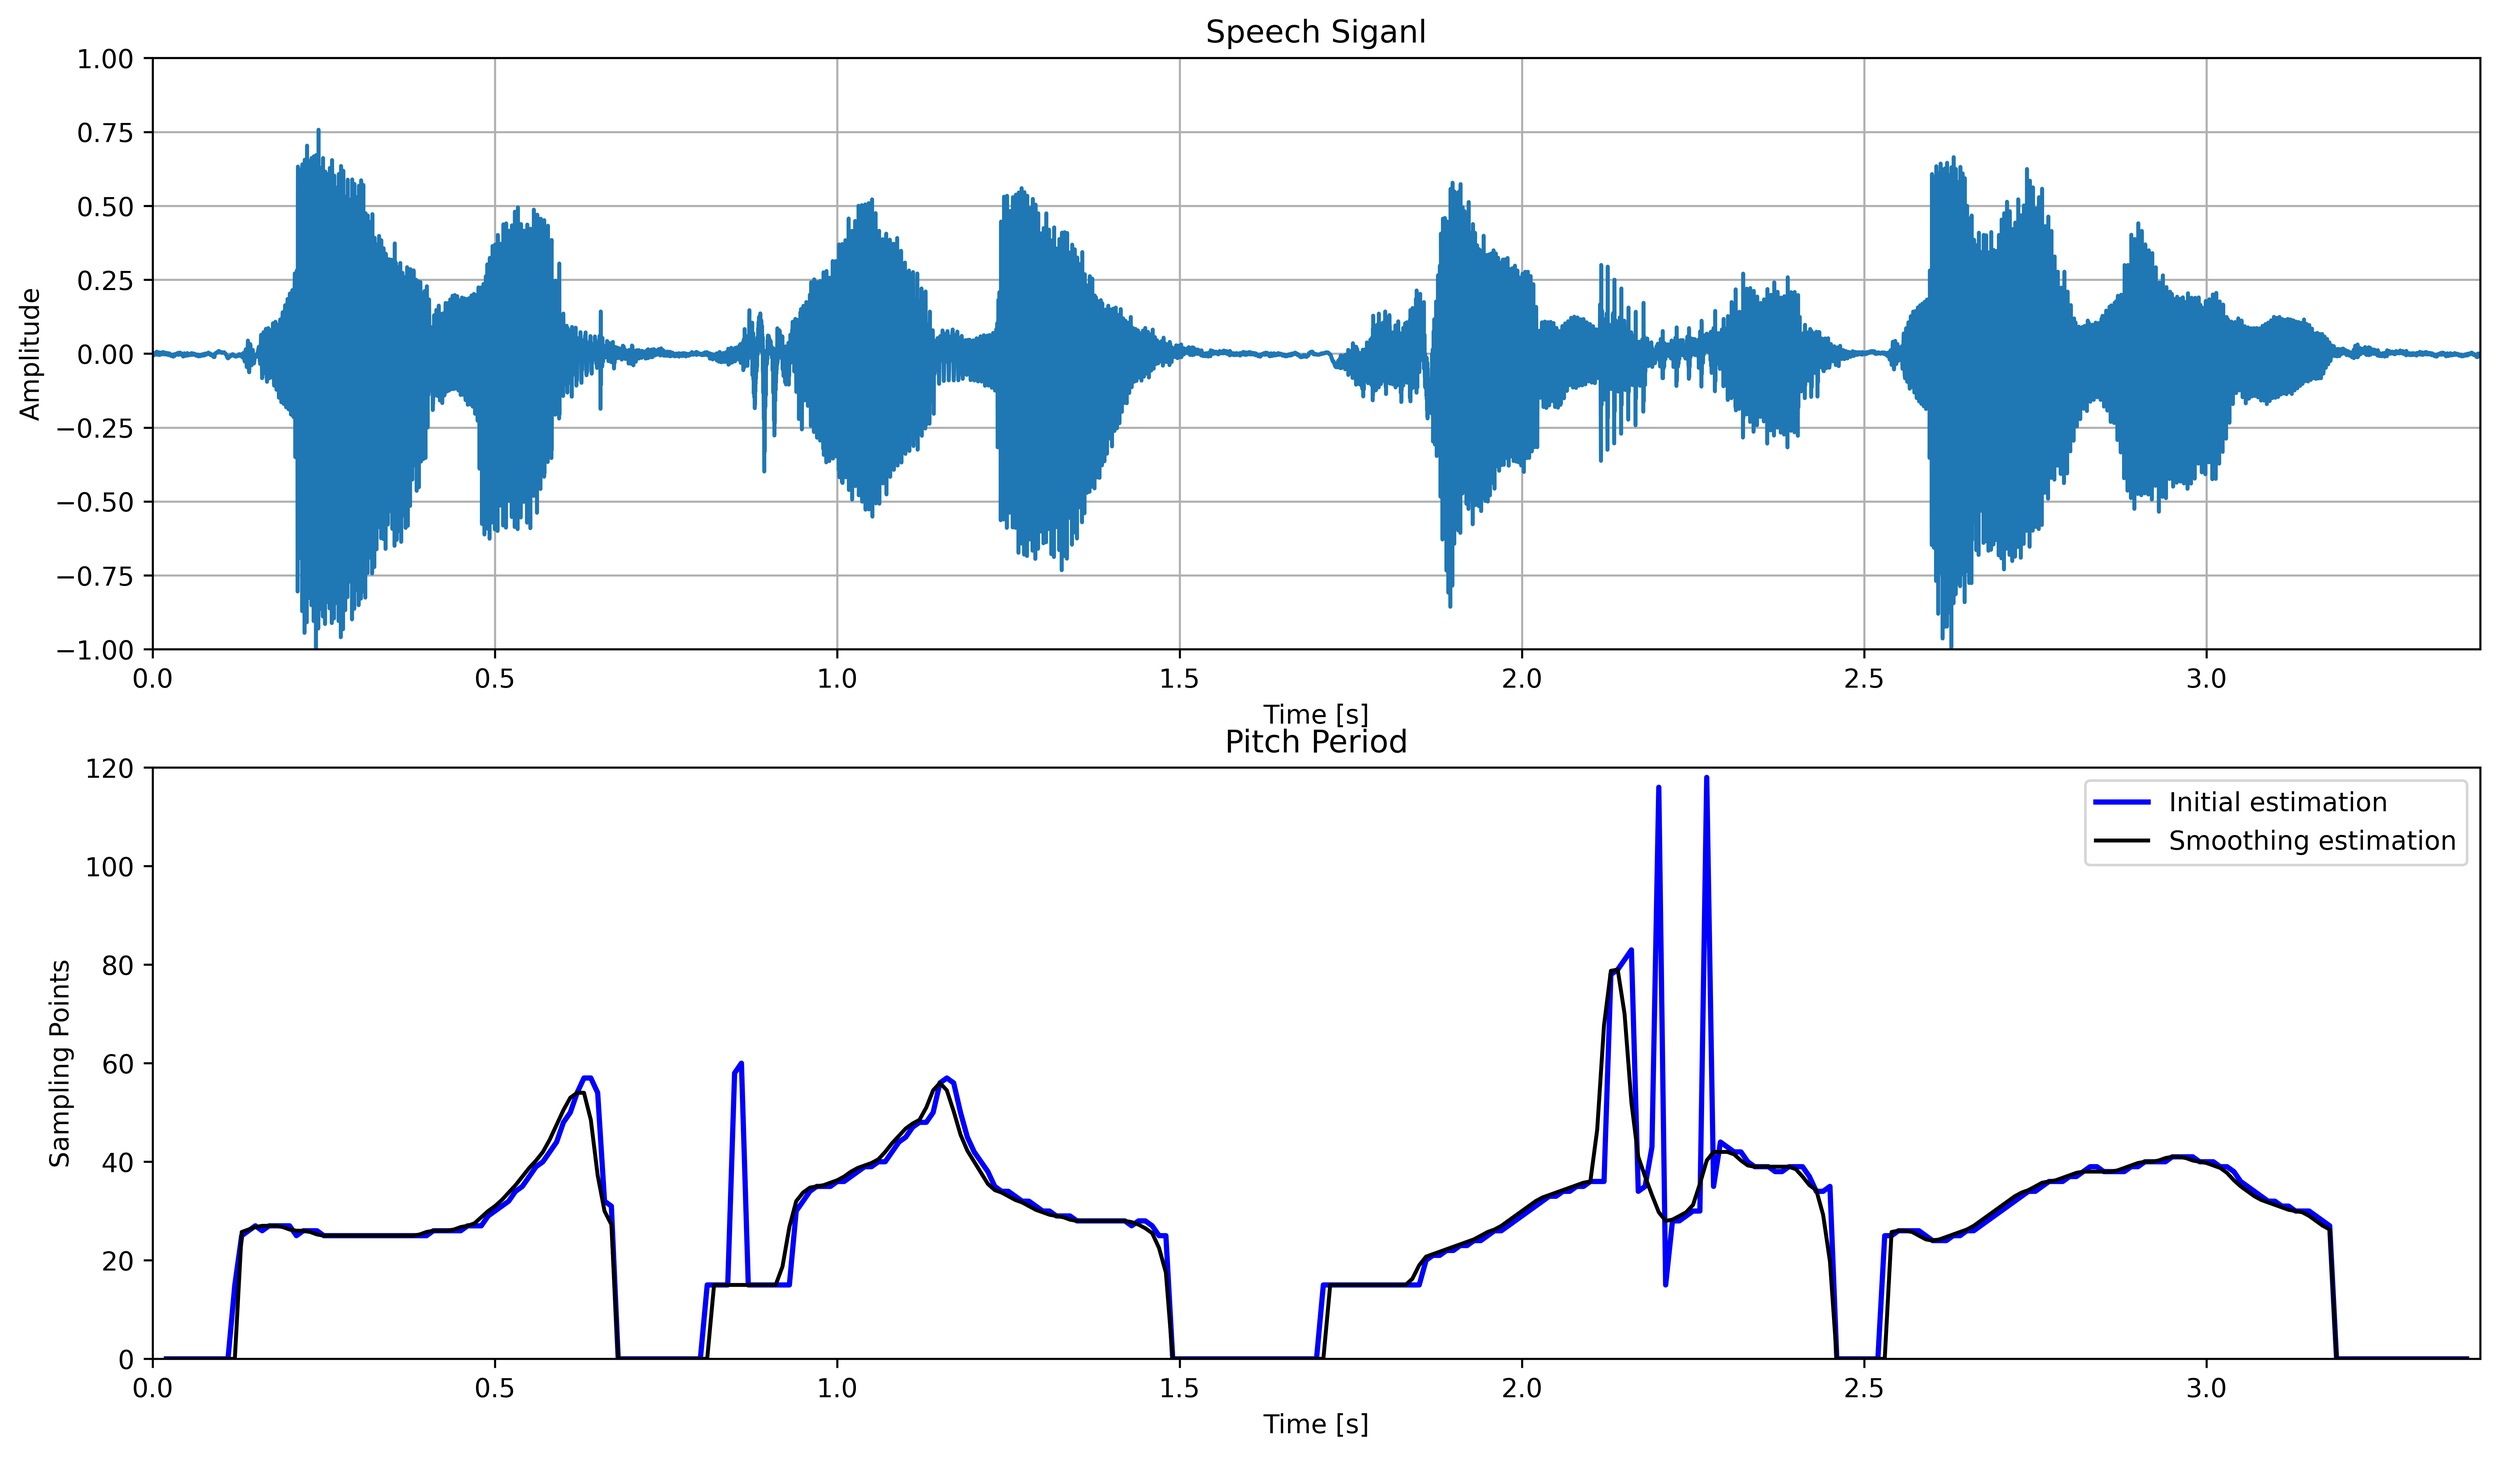
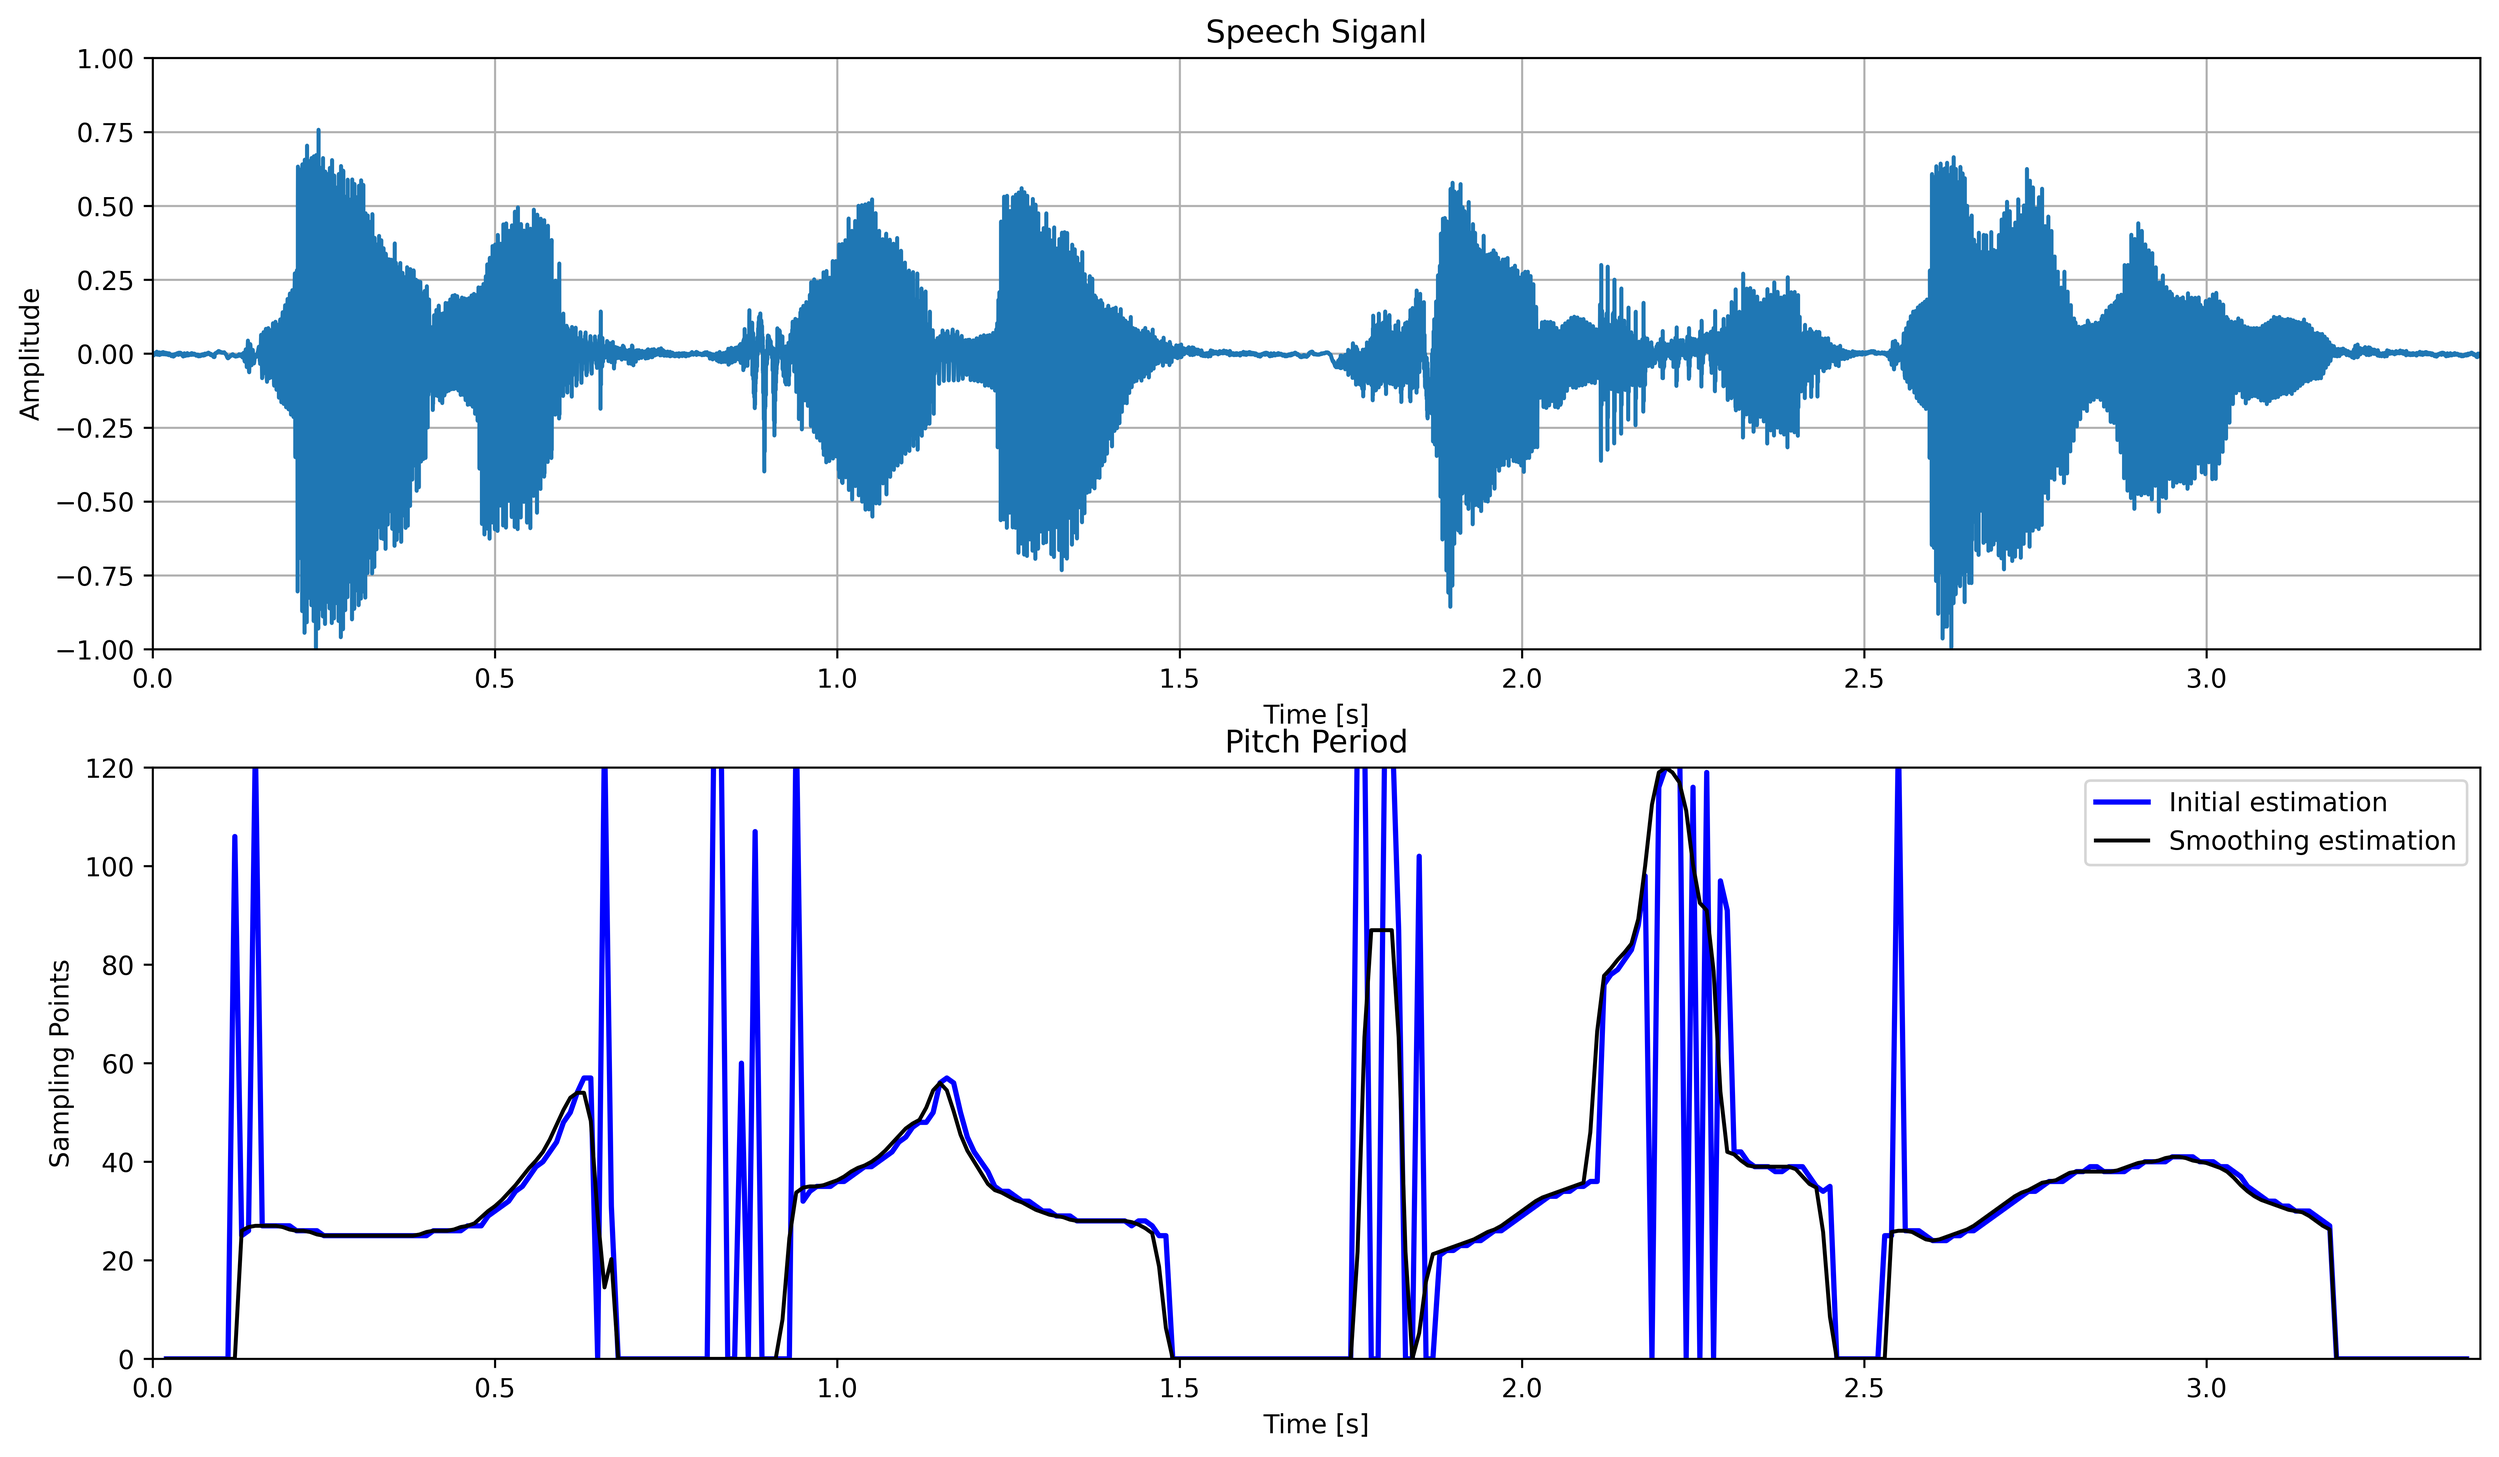
average magnitude difference pitch detection

diff --git a/Chapter8_PitchDetection/Pitch.py b/Chapter8_PitchDetection/Pitch.py
@@ -168,9 +168,53 @@ class Pitch:
 		
 		return period
 	
-	def AMDF_mod(self, y, fn, vseg, vsl, lmax, lmin):
+	def AMDF_1(self, y, fn, vseg, vsl, lmax, lmin):
 		"""
 		average magnitude difference function --> pitch detection
+		:param y: enframe matrix (size: window length * frame number)
+		:param fn: frame number
+		:param vseg: vad
+		:param vsl: vad
+		:param lmax: min pitch period
+		:param lmin: max pitch period
+		:return period: pitch period
+		"""
+		
+		pn = y.shape[1]
+		if pn != fn:
+			y = y.T
+		wlen = y.shape[0]  # frame length
+		period = np.zeros(fn)  # pitch period
+		
+		for i in range(vsl):  # only for voice segment
+			ixb = vseg['begin'][i]  # segment begin index
+			ixe = vseg['end'][i]  # segment end index
+			ixd = ixe - ixb + 1  # segment duration
+			R0 = np.zeros(wlen)  # average magnitude difference
+			for k in range(ixd):
+				u = y[:, k + ixb - 1]  # one frame data
+				for m in range(wlen):
+					R0[m] = np.sum(np.abs(u[m: wlen - 1] - u[0: wlen - m - 1]))     # AMDF
+				Rmax = max(R0)
+				Rth = 0.6 * Rmax   # threshold
+				Rm = np.where(R0[lmin: lmax] <= Rth) # find range < threshold in [Pmin, Pmax]
+				Rm = Rm[0]
+				if Rm.size == 0:
+					T0 = 0
+				else:
+					m11 = Rm[0]
+					m22 = lmax
+					T = np.argmin(R0[m11:m22])
+					if not T:
+						T0 = 0
+					else:
+						T0 = T + m11 - 1    # valley point in min
+					period[k + ixb - 1] = T0
+		return period
+	
+	def AMDF_mod(self, y, fn, vseg, vsl, lmax, lmin):
+		"""
+		modified average magnitude difference function --> pitch detection
 		:param y: enframe matrix (size: window length * frame number)
 		:param fn: frame number
 		:param vseg: vad

diff --git a/Chapter8_PitchDetection/pr8_4_1.py b/Chapter8_PitchDetection/pr8_4_1.py
@@ -36,7 +36,7 @@ if __name__ == '__main__':
 	# period = np.zeros(fn)                       # pitch period initialization
 	# auto correlation pitch detection
 	pitch = Pitch()
-	period = pitch.AMDF_mod(yy, fn, voiceseg, vosl, lmax, lmin)
+	period = pitch.AMDF_1(yy, fn, voiceseg, vosl, lmax, lmin)
 	T0 = pitch.pitfilterm1(period, voiceseg, vosl)
 	
 	# figure
